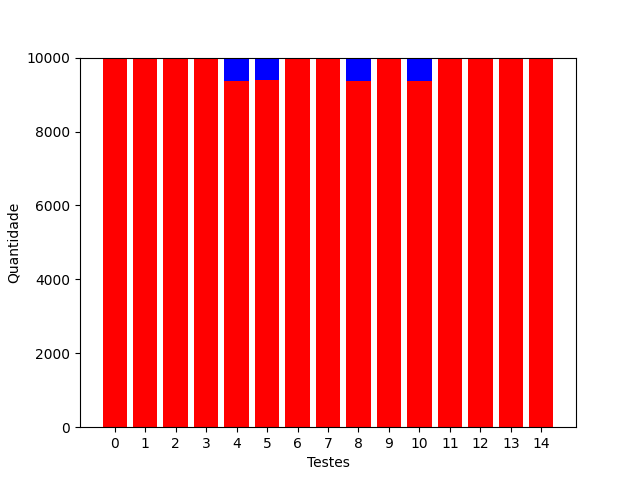
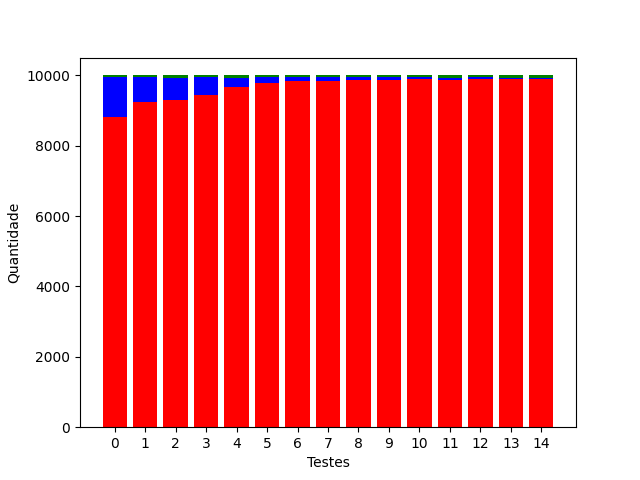
Cria gráficos do python

diff --git a/analise.py b/analise.py
@@ -6,7 +6,7 @@ import numpy as np
 
 def last_number(e):
     return int(e[28:].split('.')[0])
-directory = "dados/c"
+directory = "dados/python"
 files = [directory + "/" + f for f in listdir(directory) if isfile(join(directory, f)) and "json" in f]
 files.sort(key=last_number)
 # for f in files:
